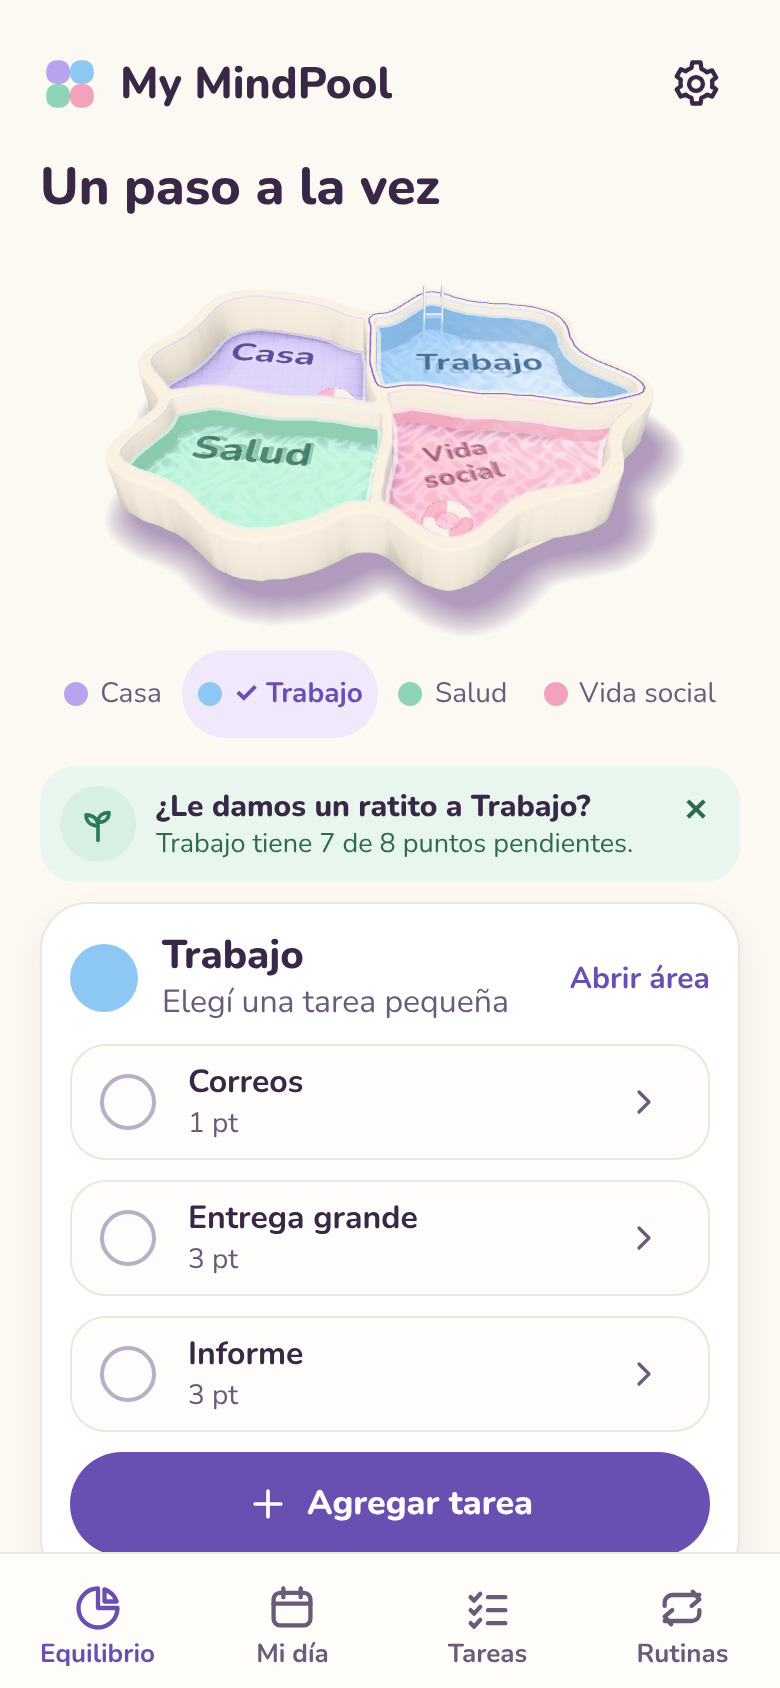
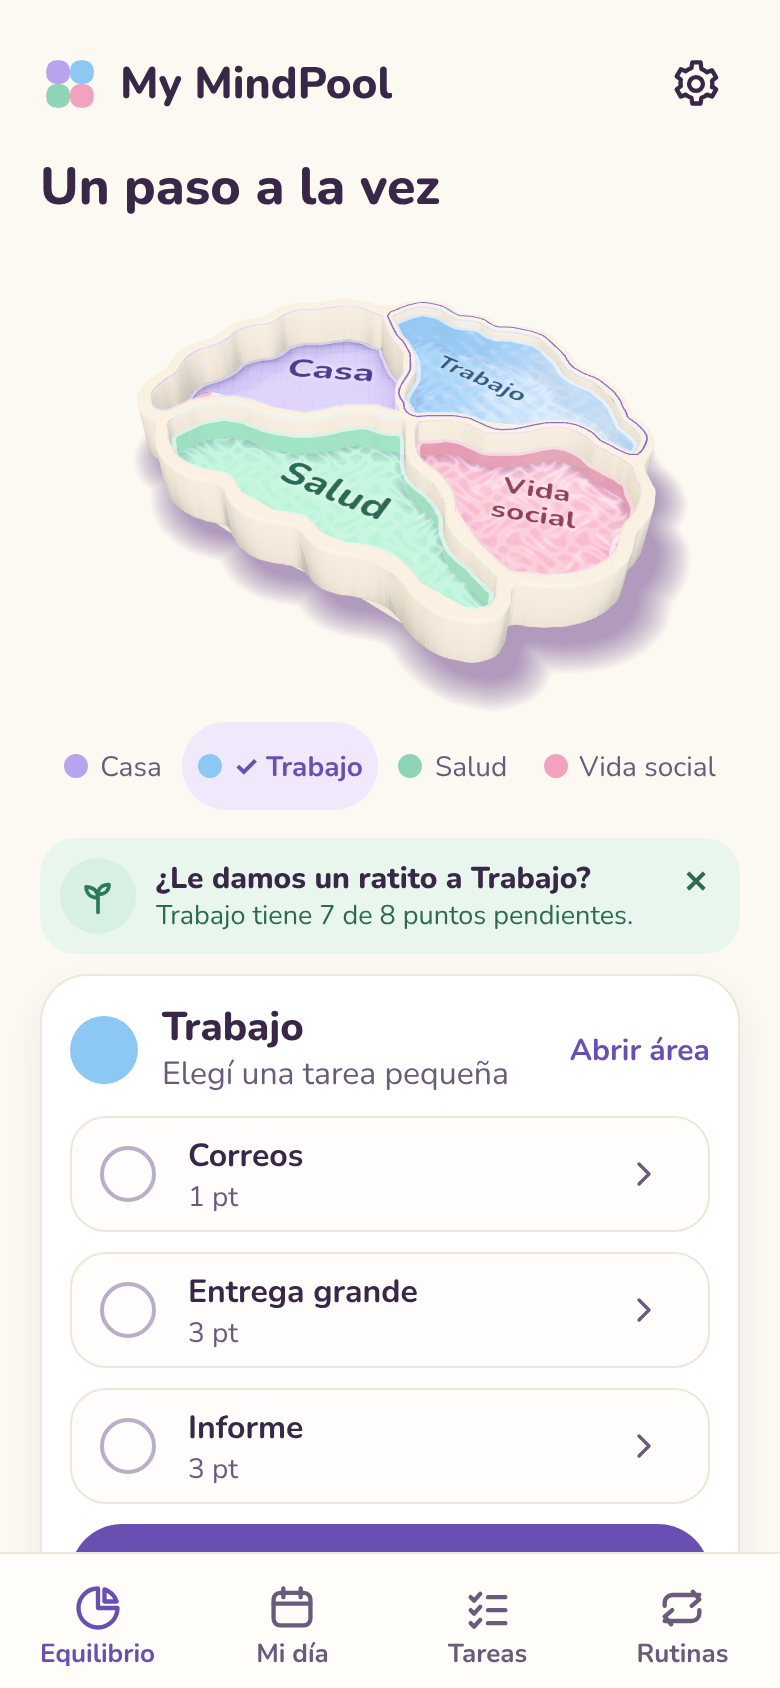
feat(mindpool): agua sobre la silueta de la referencia — un solo nombre nítido, sin escalera flotante
Claude-Session: https://claude.ai/code/session_01Ni3HjQ7ow1cywGzy9mdTNb

Changed region(s): [[0.0615, 0.154, 0.9231, 0.9242], [0.8308, 0.4005, 0.9231, 0.4621]]

diff --git a/src/features/brain3d/scene.ts b/src/features/brain3d/scene.ts
@@ -323,8 +323,6 @@ interface Pool {
   wallWater: THREE.Mesh;
   caustics: THREE.Mesh;
   label: THREE.Mesh;
-  /** Copia del nombre sobre la superficie: mantiene el contraste cuando el agua está alta. */
-  labelTop: THREE.Mesh;
   hit: THREE.Mesh;
   ring: THREE.Mesh;
   deep: string;
@@ -592,14 +590,11 @@ export class BrainScene {
     // Nombre en el fondo, visible a través del agua.
     const label = new THREE.Mesh(new THREE.PlaneGeometry(1, 1).rotateX(-Math.PI / 2), new THREE.MeshBasicMaterial({ transparent: true, depthWrite: false, toneMapped: false }));
     label.position.y = 0.012;
-    label.renderOrder = 2;
-    label.visible = false; // hasta tener su texto: si no, se vería un cuadrado blanco de 1×1
+    // Se dibuja DESPUÉS del agua (sin escribir profundidad): se lee nítido a cualquier nivel y las paredes
+    // cercanas igual lo tapan. Oculto hasta tener su texto (si no, se vería un cuadrado blanco de 1×1).
+    label.renderOrder = 5;
+    label.visible = false;
     group.add(label);
-    const labelTop = new THREE.Mesh(new THREE.PlaneGeometry(1, 1).rotateX(-Math.PI / 2), new THREE.MeshBasicMaterial({ transparent: true, depthWrite: false, toneMapped: false, opacity: 0 }));
-    labelTop.renderOrder = 5;
-    labelTop.visible = false;
-    group.add(labelTop);
-
     // Agua: volumen (de piso a superficie) escalado en altura, más una hoja con ondas arriba.
     const inset = offsetPolygon(poly, -0.012);
     const waterMat = new THREE.MeshPhysicalMaterial({
@@ -645,7 +640,7 @@ export class BrainScene {
     ring.visible = area.id === this.selected;
     group.add(ring);
 
-    const pool: Pool = { id: area.id, name: "", deep: "", poly, group, water, surface, waterline, wallWater, caustics, label, labelTop, hit, ring, current: this.reduce ? clamp01(area.level) : 0, target: clamp01(area.level) };
+    const pool: Pool = { id: area.id, name: "", deep: "", poly, group, water, surface, waterline, wallWater, caustics, label, hit, ring, current: this.reduce ? clamp01(area.level) : 0, target: clamp01(area.level) };
     this.pools.push(pool);
     if (this.opts.labels !== false) this.enqueueLabel(pool, area);
     this.applyLevel(pool);
@@ -698,16 +693,7 @@ export class BrainScene {
     // En el plano del piso (x, z = y del dibujo) girar «angle» hacia abajo equivale a rotar -angle sobre y.
     pool.label.rotation.y = -angle;
     pool.label.visible = true;
-    pool.labelTop.visible = true;
     pool.label.userData.center = { x: cx / LABEL_SCALE, y: cy / LABEL_SCALE, w, h };
-    const top = pool.labelTop.material as THREE.MeshBasicMaterial;
-    top.map = mat.map;
-    top.needsUpdate = true;
-    pool.labelTop.geometry.dispose();
-    pool.labelTop.geometry = new THREE.PlaneGeometry(w, h).rotateX(-Math.PI / 2);
-    pool.labelTop.position.set(cx / LABEL_SCALE, 0.02, cy / LABEL_SCALE);
-    pool.labelTop.rotation.y = -angle;
-    pool.labelTop.userData.baseZ = cy / LABEL_SCALE;
   }
 
   /** Altura del agua, opacidad según profundidad y visibilidad del brillo del fondo. */
@@ -723,10 +709,6 @@ export class BrainScene {
     p.caustics.visible = has;
     p.water.scale.y = Math.max(h, 1e-4);
     p.surface.position.y = h + 0.003;
-    p.labelTop.position.y = h + 0.012;
-    // Más alto y más cerca de la cámara: así se proyecta justo sobre el nombre del fondo (sin verse doble).
-    p.labelTop.position.z = ((p.labelTop.userData.baseZ as number | undefined) ?? 0) + h / Math.tan(TILT);
-    (p.labelTop.material as THREE.MeshBasicMaterial).opacity = has ? 0.82 * Math.min(1, Math.max(0, (p.current - 0.15) / 0.5)) : 0;
     (p.water.material as THREE.MeshPhysicalMaterial).opacity = 0.14 + 0.72 * p.current;
     // Las cáusticas y la hoja de ondas solo existen con agua: casi sin agua, el fondo se ve limpio.
     const wet = Math.min(1, Math.max(0, (p.current - 0.04) / 0.3));
@@ -758,7 +740,8 @@ export class BrainScene {
     });
 
     // Escalera en el borde trasero de una pileta.
-    const ladderPool = this.pools.find((_, i) => i % 4 === 1 && layout.pools[i].area >= 4);
+    // La escalera está apagada por ahora: con las paredes nuevas no encaja en el borde.
+    const ladderPool = undefined as Pool | undefined;
     if (ladderPool) {
       const back = ladderPool.poly.reduce((m, p) => (p.y < m.y ? p : m), ladderPool.poly[0]);
       const steel = new THREE.MeshStandardMaterial({ color: 0xe9eef2, metalness: 0.85, roughness: 0.22, envMapIntensity: 1.2 });
@@ -817,7 +800,7 @@ export class BrainScene {
         const edge = Math.min(...pool.poly.map((q) => Math.hypot(q.x - x, q.y - y)));
         if (edge < clearance) continue;
         const away = c ? Math.hypot((x - c.x) / (c.w / 2 + 0.5), (y - c.y) / (c.h / 2 + 0.5)) : 1;
-        if (away < 1.1) continue;
+        if (away < 1.7) continue;
         const score = edge + away;
         if (!best || score > best.score) best = { p, score };
       }

diff --git a/docs/DECISIONS.md b/docs/DECISIONS.md
@@ -104,3 +104,7 @@ La silueta procedural (superelipse con lóbulos) no se reconocía como cerebro. 
 **Diferencias con la referencia:** los lóbulos finos del borde (sobre todo abajo a la izquierda) salen más suaves por el suavizado; la referencia tiene escalones y detalles que no se modelan.
 **Pendiente:** integrar y revisar el agua con esta forma; 2–8 áreas (siguen con la forma procedural anterior).
 
+## D-021 · Agua sobre la silueta de la referencia (4 áreas) (2026-11-03)
+Con la forma aprobada se revisó el agua en la cámara final con niveles variados y extremos (3 % y 97 %): el nivel se lee contra la pared y por el color. Cambios: **un solo nombre** por pileta, dibujado después del agua y sin escribir profundidad (antes había una copia sobre la superficie que se veía doble por la perspectiva); los flotadores se alejan más del nombre; **la escalera se apagó** (con las paredes nuevas quedaba flotando fuera del borde). Siguen apagadas las plantas.
+**Pendiente:** 2–8 áreas (hoy usan la forma procedural anterior; hace falta decidir cómo derivar una silueta de cerebro para otras cantidades) y los detalles finos de la referencia (lóbulos del borde más marcados, escalones).
+

diff --git a/docs/STATUS.md b/docs/STATUS.md
@@ -55,6 +55,9 @@ Limitaciones reales (lo que NO está hecho):
 - Sin sincronización entre dispositivos probada (dos dispositivos a la vez): las funciones son idempotentes y hay pruebas secuenciales, pero no concurrentes.
 - Para ver las pantallas hay que cargar las variables de Supabase y correr `npx expo start --web`; no hay ambiente de revisión publicado.
 
+## Agua sobre la silueta aprobada (2026-11-03, quinta pasada)
+Ver D-021. Silueta de 4 áreas **aprobada**. 192 pruebas y 128 comprobaciones del navegador (datos simulados). Pendiente: 2–8 áreas; sin verificar en iPhone real.
+
 ## Silueta de cerebro trazada de la referencia (2026-11-03, cuarta pasada)
 Ver D-020. Captura de la forma sin agua ni adornos junto a la referencia: `forma-4-areas.png`. 4 áreas usan el contorno trazado; 2–8 siguen pendientes. 192 pruebas y 128 comprobaciones del navegador pasan (datos simulados).
 
